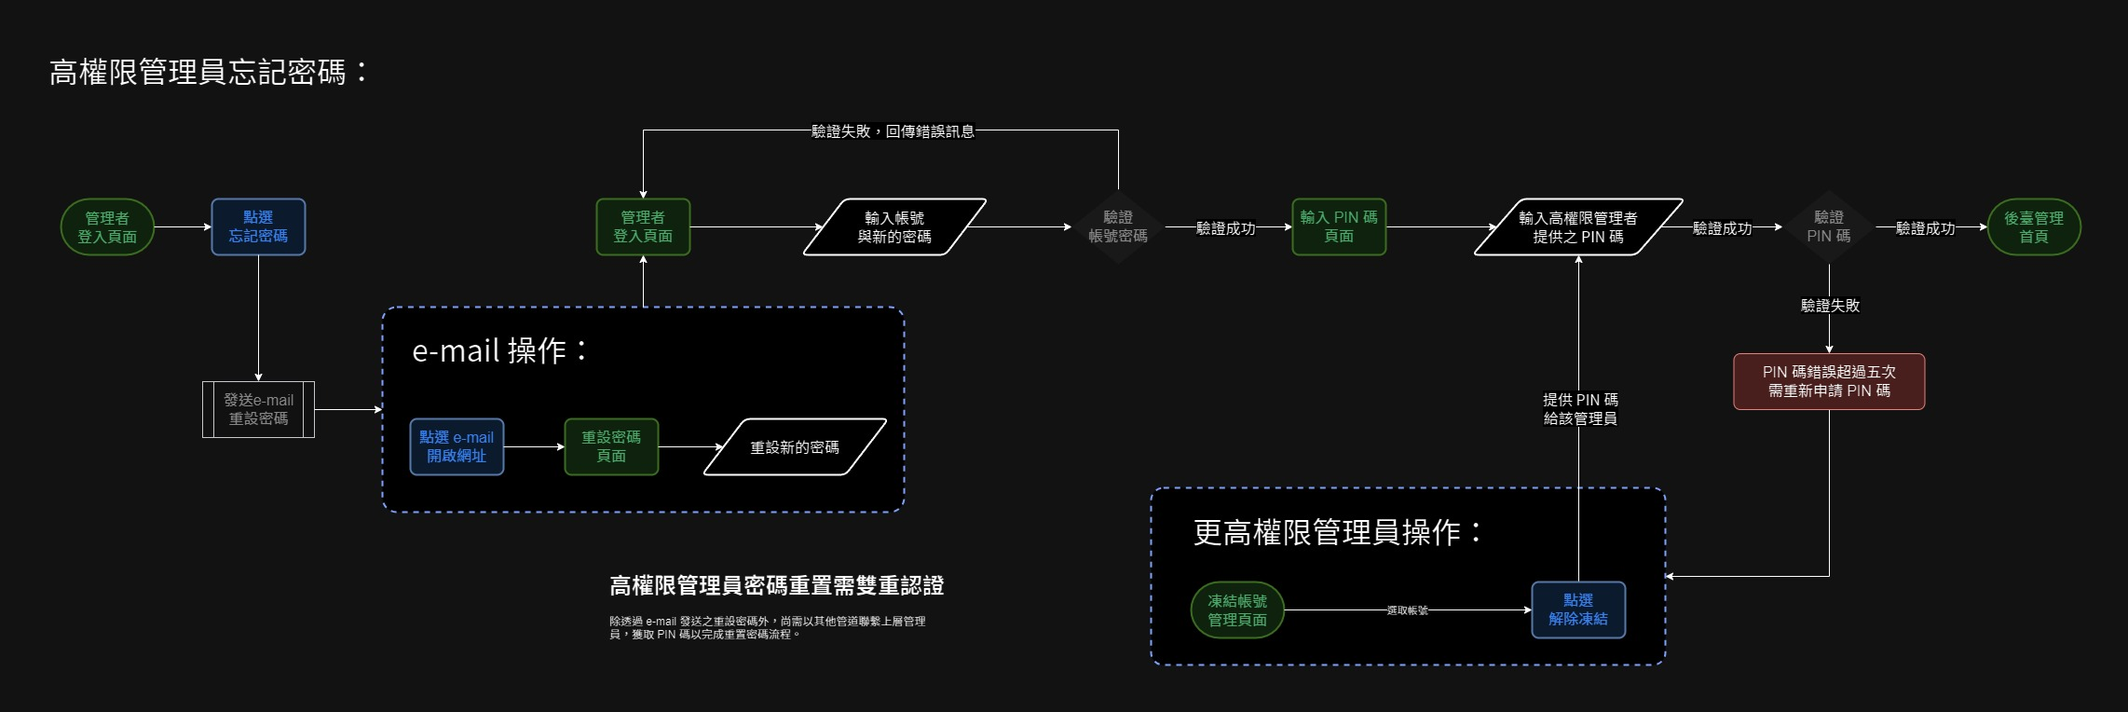
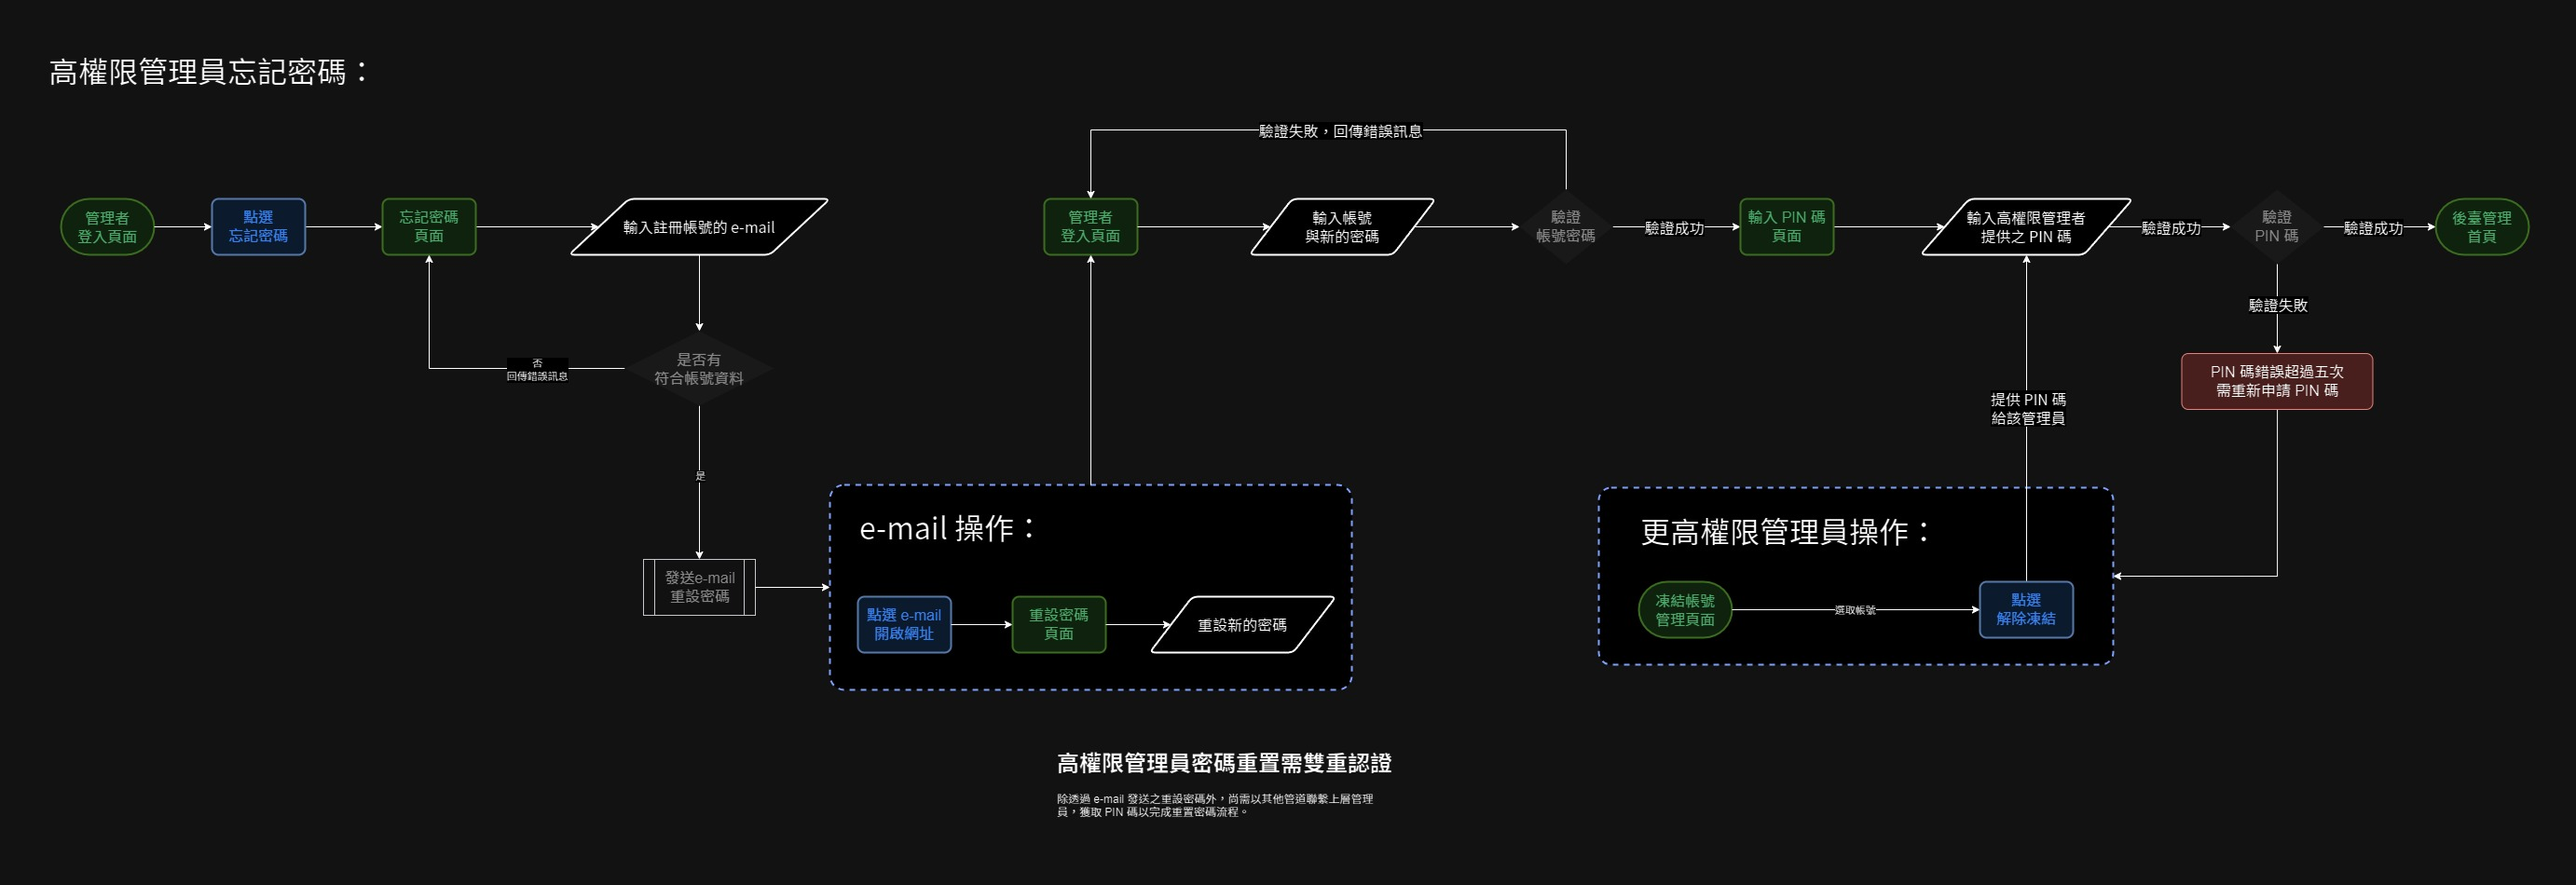
updated

diff --git a/_sidebar.md b/_sidebar.md
@@ -28,13 +28,13 @@
   * 頁面說明
     * [登入](Pages/Account/login.md)
     * [綁定帳號資料](Pages/Account/bind-account.md)
-    * [忘記密碼](Pages/Account/forget-password.md)
     * [e-mail 認證](Pages/Account/verity-email.md)
+    * [忘記密碼](Pages/Account/forget-password.md)
     * [重設密碼](Pages/Account/reset-password.md)
     * [輸入 PIN 碼](Pages/Account/enter-pin.md)
     * [帳號資料](Pages/Account/account-info.md)
-    * [修改密碼](Pages/Account/change-password.md)
-    * [變更 e-mail](Pages/Account/change-email.md)
+    * [更改密碼](Pages/Account/change-password.md)
+    * [更改 e-mail](Pages/Account/change-email.md)
     * [檢視登入紀錄](Pages/Account/login-history.md)
 
 

diff --git a/Pages/Beauty/content/chapter.md b/Pages/Beauty/content/chapter.md
@@ -1,5 +1,5 @@
 # 章節管理
-> 可設定章節內要包含的關鍵字。
+> 設定章節內要包含的關鍵字即調整排序。
 
 !> 暫定先固定章節數量與名稱，後續可開發 **增加章節** 及 **修改章節名稱** 兩個功能。
 
@@ -36,6 +36,11 @@
 | --- | --- | --- | --- |
 | 輸入框關鍵字 | input | type | 偵測輸入後，下拉選單匹配顯示資料庫內包含輸入字詞的關鍵字 |
 | 增加 | Button | click | 點擊後後端檢測輸入的字詞是否與
+
+
+<br>
+
+## 操作流程
 
 ![章節管理操作流程](./asset/chapter-flow.jpg)
 

diff --git a/Pages/Beauty/content/article-edit.md b/Pages/Beauty/content/article-edit.md
@@ -35,7 +35,7 @@
 |儲存草稿|	將目前所有已輸入之資料新增至新的一筆並列為草稿狀態。|	草稿狀態 下點選 預覽文章，強制儲存草稿。|
 |送出/更新|	將目前所有已輸入之資料新增並驗證所有已輸入內容是否符合規定。| -|
 |取消| -| -|
-|預覽文章|	顯示前端預覽畫面。|	停用狀態下不顯示<br> 已發布文章不可編輯|
+|預覽文章|	顯示前端預覽畫面。|	停用狀態下不顯示<br> 已發布文章不可編輯<br>開啟新分頁[預覽文章](Pages/Beauty/content/preview-article.md)|
 
 
 <br>

diff --git a/Pages/Account/forget-password.md b/Pages/Account/forget-password.md
@@ -7,7 +7,7 @@
 | 項目 | 類型 | 操作 | 系統回應與處理邏輯 |
 | --- | --- | --- | --- |
 | 輸入 e-mail | Input | type | - |
-| 送出 | Button | Click | 判斷是否有相符合 e-mail |
+| 送出 | Button | Click | 判斷是否有相符合 e-mail：<br>相符：跳轉至[重設密碼](Pages/Account/reset-password.md)頁面<br>不相符：回報錯誤訊息 |
 | 返回登入畫面 | Link | Click | 跳轉至[登入](Pages/Account/login.md) |
 
 <br>

diff --git a/Pages/Beauty/content/add-article.md b/Pages/Beauty/content/add-article.md
@@ -13,13 +13,7 @@
 | 項目 | 類型 | 操作 | 系統回應與處理邏輯 |
 | --- | --- | --- | --- |
 |文章標題|	input | type|	建立文章 ID|
-
-<br>
-
-### 按鈕行為
-|按鈕|	行為|	說明|
-|---|---|---|
-|下一步| -|		跳轉至[文章](Pages/Beauty/content/article.md)|
+|下一步| Button | Click |跳轉至 [編輯文章](Pages/Beauty/content/article-edit.md)|
 
 <br>
 

diff --git a/Pages/Beauty/member/member-cat.md b/Pages/Beauty/member/member-cat.md
@@ -1,4 +1,5 @@
 # 會員類型與等級權限說明
+> 暫定會員類型與權限相關設定，之後看行銷規劃再行調整。
 
 
 ## 會員屬性

diff --git a/Pages/Account/change-password.md b/Pages/Account/change-password.md
@@ -1,1 +1,5 @@
-# 修改密碼
+# 更改密碼
+> 管理者自行更換密碼。
+
+![畫面示意](asset/change-password.png)
+

diff --git a/Pages/Account/account-info.md b/Pages/Account/account-info.md
@@ -1,1 +1,8 @@
 # 帳號資料
+> 顯示管理員帳號基本資料。
+
+![帳號資料](asset/account-info.png)
+
+
+
+

diff --git a/Pages/Account/change-email.md b/Pages/Account/change-email.md
@@ -1,1 +1,5 @@
-# 變更 e-mail
+# 更改 e-mail
+
+
+![畫面示意](asset/change-email.png)
+
